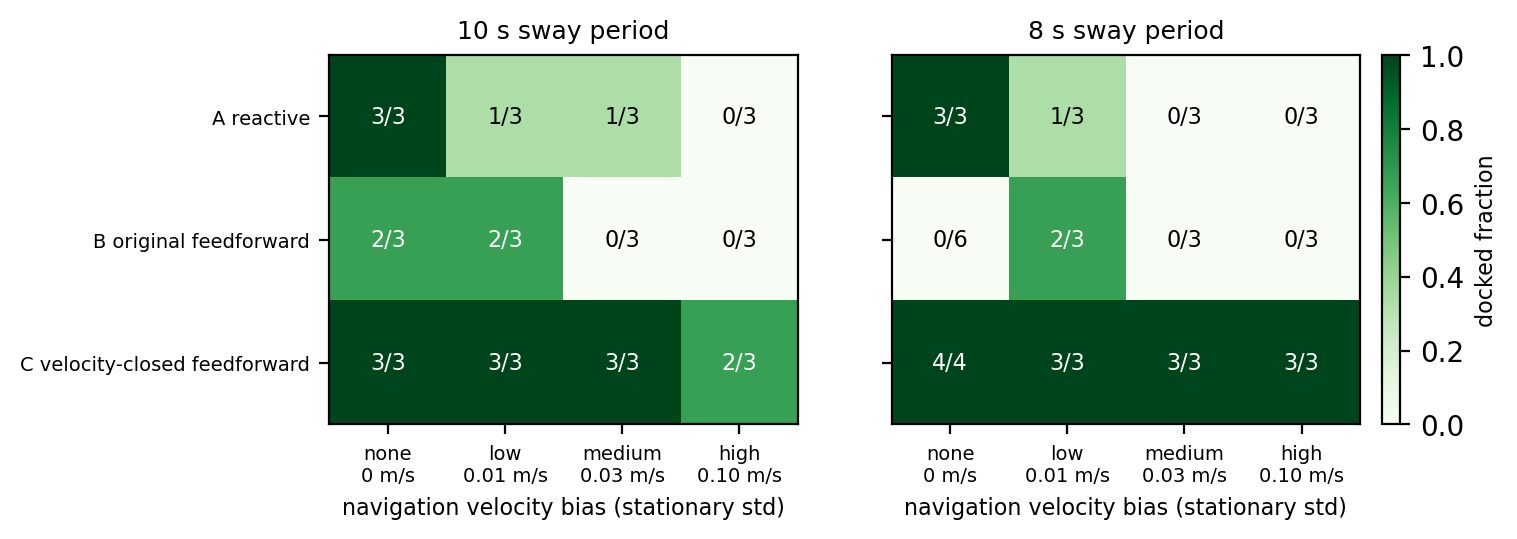
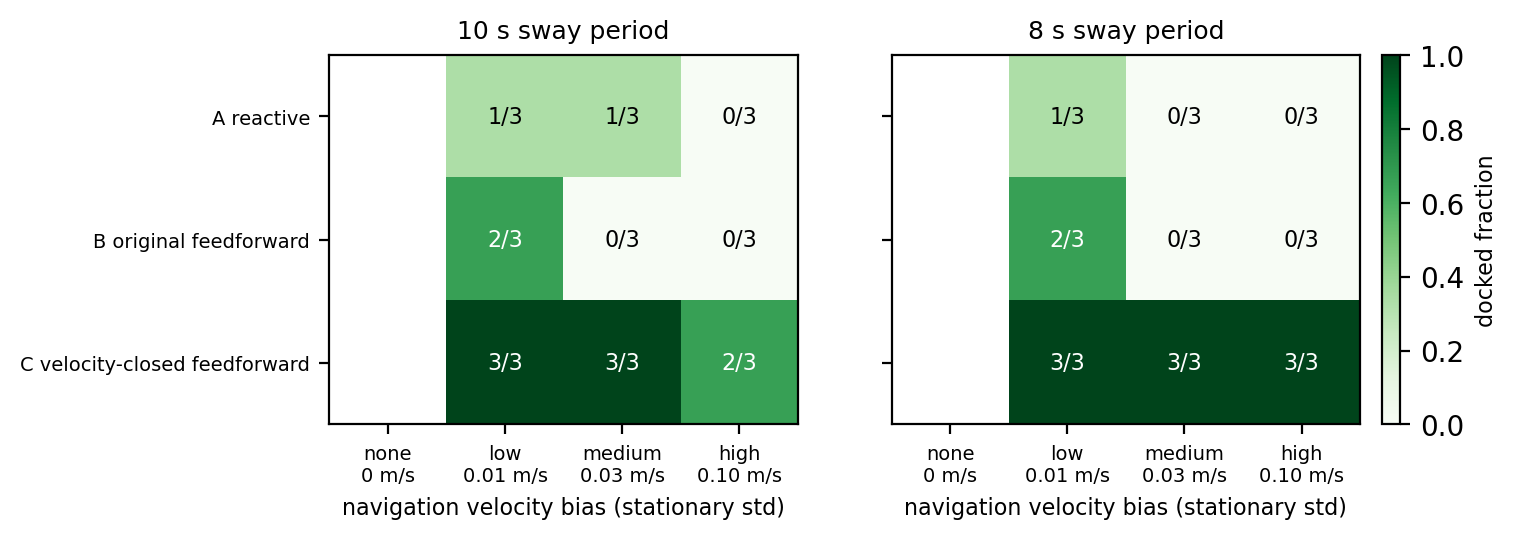
paper(figures): regenerate Table I and every result figure from the metrics by one script; redraw the pre-fix sweep at column width with arm names and n; legends off the data; contact trials marked; 6 s tick

diff --git a/ut27/t1/paper_figures.py b/ut27/t1/paper_figures.py
@@ -1,6 +1,6 @@
 """Paper figures from the per-trial metrics of the core sweep (all four arms, one host).
 
-Usage: python3 paper_figures.py <metrics.csv> <out_dir> [nav_metrics.csv]
+Usage: python3 paper_figures.py <metrics.csv> <out_dir> [nav_metrics.csv] [prefix_metrics.csv]
 Needs numpy < 2 with the host matplotlib; run with the scratch scipy/numpy on PYTHONPATH.
 """
 import csv
@@ -53,12 +53,13 @@ def fig_success(by, out):
         a.set_xticks(x); a.set_xticklabels([str(p) for p in PERIODS]); a.set_xlabel("sway period [s]")
         a.set_ylim(0, 1.05); a.set_title(title, fontsize=9); a.grid(axis="y", lw=0.3)
     ax[0].set_ylabel("fraction of trials")
-    ax[0].legend(fontsize=6.5, loc="lower left", framealpha=0.9)
-    fig.tight_layout(); fig.savefig(out, dpi=200); plt.close(fig)
+    handles, labels = ax[0].get_legend_handles_labels()
+    fig.legend(handles, labels, fontsize=7, loc="lower center", ncol=4, frameon=False, bbox_to_anchor=(0.5, -0.02))
+    fig.tight_layout(rect=(0, 0.06, 1, 1)); fig.savefig(out, dpi=200, bbox_inches="tight"); plt.close(fig)
 
 
 def fig_overswing(by, out):
-    fig, ax = plt.subplots(figsize=(3.5, 2.6))
+    fig, ax = plt.subplots(figsize=(3.5, 3.0))
     f = np.array([1.0 / p for p in PERIODS])
     ff = np.linspace(1 / 22, 1 / 5.5, 200)
     ax.plot(ff, [loop_model(1 / v, 1.0) for v in ff], "k-", lw=1, label="loop model, fine phase (unit gain)")
@@ -70,10 +71,12 @@ def fig_overswing(by, out):
         lo = [np.min(v) if v else np.nan for v in vals]; hi = [np.max(v) if v else np.nan for v in vals]
         ax.errorbar(f, med, yerr=[np.array(med) - np.array(lo), np.array(hi) - np.array(med)], fmt=marks[arm], ms=4, capsize=2, lw=0.8, label=NAMES[arm])
     ax.set_xlabel("sway frequency [Hz]"); ax.set_ylabel("vehicle / dock lateral amplitude")
-    ax.set_ylim(0.6, 2.1); ax.grid(lw=0.3); ax.legend(fontsize=5.5, loc="lower right", framealpha=0.9)
+    ax.set_ylim(0.6, 2.1); ax.grid(lw=0.3)
     sec = ax.secondary_xaxis("top", functions=(lambda v: 1 / np.maximum(v, 1e-6), lambda v: 1 / np.maximum(v, 1e-6)))
     sec.set_xticks(PERIODS); sec.set_xlabel("period [s]", fontsize=8)
-    fig.tight_layout(); fig.savefig(out, dpi=200); plt.close(fig)
+    handles, labels = ax.get_legend_handles_labels()
+    fig.legend(handles, labels, fontsize=5.5, loc="lower center", ncol=2, frameon=False, bbox_to_anchor=(0.5, 0.0))
+    fig.tight_layout(rect=(0, 0.10, 1, 1)); fig.savefig(out, dpi=200, bbox_inches="tight"); plt.close(fig)
 
 
 def fig_capture(by, out):
@@ -88,10 +91,61 @@ def fig_capture(by, out):
             a.errorbar(PERIODS, med, yerr=[np.array(med) - np.array(lo), np.array(hi) - np.array(med)], fmt=marks[arm] + "-", ms=4, capsize=2, lw=0.8, label=NAMES[arm])
     ax[0].set_ylabel("entry-plane lateral offset [cm]"); ax[1].set_ylabel("time to seat [s]")
     for a in ax:
-        a.set_xlabel("sway period [s]"); a.invert_xaxis(); a.grid(lw=0.3)
+        a.set_xlabel("sway period [s]"); a.set_xticks(PERIODS); a.invert_xaxis(); a.grid(lw=0.3)
+    for arm in ARMS:
+        for p in PERIODS:
+            rs = [r for r in by[(arm, p)] if r["outcome"] == "CONTACT" and r["capture_lateral_m"] not in ("nan", "")]
+            if rs:
+                ax[0].plot([p] * len(rs), [abs(float(r["capture_lateral_m"])) * 100 for r in rs], marks[arm], ms=4, mfc="white", mec="k", mew=0.6, lw=0)
+    ax[0].plot([], [], "o", ms=4, mfc="white", mec="k", mew=0.6, lw=0, label="contact trial")
     ax[0].axhline(3.0, color="grey", lw=0.6, ls=":"); ax[0].text(6.2, 3.15, "seat tolerance", fontsize=6, color="grey", ha="right")
     ax[0].legend(fontsize=6, loc="upper left", framealpha=0.9)
     fig.tight_layout(); fig.savefig(out, dpi=200); plt.close(fig)
+
+
+def fig_prefix_sweep(path, out):
+    """The sweep that exposed the failure (July host, arms A and B): docked and
+    contact-free fractions per period, with n per cell."""
+    rows = list(csv.DictReader(open(path)))
+    by = defaultdict(list)
+    for r in rows:
+        by[({"static": "A", "sway": "B"}[r["arm"]], int(float(r["period"])))].append(r)
+    fig, ax = plt.subplots(figsize=(3.5, 2.2))
+    x = np.arange(len(PERIODS)); wdt = 0.36
+    for i, arm in enumerate("AB"):
+        docked = [frac(by[(arm, p)], lambda r: r["docked"] in ("True", "1", "true")) for p in PERIODS]
+        clean = [frac(by[(arm, p)], lambda r: r["outcome"] == "CLEAN") for p in PERIODS]
+        ax.bar(x + (i - 0.5) * wdt, docked, wdt, color=f"C{i}", alpha=0.35, label=f"{NAMES[arm]}, docked")
+        ax.bar(x + (i - 0.5) * wdt, clean, wdt, color=f"C{i}", label=f"{NAMES[arm]}, without contact")
+        for j, p in enumerate(PERIODS):
+            n = len(by[(arm, p)])
+            if n != 3:
+                ax.text(x[j] + (i - 0.5) * wdt, max(docked[j], 0) + 0.03, f"n={n}", ha="center", va="bottom", fontsize=6)
+    ax.set_xticks(x); ax.set_xticklabels([str(p) for p in PERIODS]); ax.set_xlabel("sway period [s]")
+    ax.set_ylim(0, 1.12); ax.set_ylabel("fraction of trials"); ax.grid(axis="y", lw=0.3)
+    handles, labels = ax.get_legend_handles_labels()
+    fig.legend(handles, labels, fontsize=6, loc="lower center", ncol=2, frameon=False, bbox_to_anchor=(0.5, 0.0))
+    fig.tight_layout(rect=(0, 0.10, 1, 1)); fig.savefig(out, dpi=200, bbox_inches="tight"); plt.close(fig)
+
+
+def table_core(by):
+    """Table I rows: docked (clean), median |lateral offset| at the entry plane, median seat time."""
+    def med(vals, fmt):
+        return fmt % np.median(vals) if vals else "--"
+    lines = []
+    for arm in ARMS:
+        cells = []
+        for p in PERIODS:
+            rs = by[(arm, p)]; d = sum(r["docked"] in ("True", "1", "true") for r in rs); c = sum(r["outcome"] == "CLEAN" for r in rs)
+            cells.append(f"{d} ({c}) of {len(rs)}" if len(rs) != 3 else f"{d} ({c})")
+        lines.append(f"{arm} docked (clean) & " + " & ".join(cells) + r" \\")
+    for arm in ARMS:
+        cells = [med([abs(float(r["capture_lateral_m"])) * 100 for r in by[(arm, p)] if r["capture_lateral_m"] not in ("nan", "")], "%.1f") for p in PERIODS]
+        lines.append(f"{arm} offset [cm] & " + " & ".join(cells) + r" \\")
+    for arm in ARMS:
+        cells = [med([float(r["t_dock_s"]) for r in by[(arm, p)] if r["docked"] in ("True", "1", "true") and r["t_dock_s"] not in ("nan", "")], "%.0f") for p in PERIODS]
+        lines.append(f"{arm} seat time [s] & " + " & ".join(cells) + r" \\")
+    return "\n".join(lines)
 
 
 LEVELS = ["none", "low", "medium", "high"]
@@ -143,6 +197,9 @@ if __name__ == "__main__":
     fig_capture(by, f"{out}/capture_and_time.png")
     if len(sys.argv) > 3:
         fig_nav_heatmap(load_nav(sys.argv[3]), f"{out}/nav_heatmap.png")
+    if len(sys.argv) > 4:
+        fig_prefix_sweep(sys.argv[4], f"{out}/clean_pdock.png")
+    print(table_core(by))
     for p in PERIODS:
         print(f"model {p:2d} s: fine {loop_model(p, 1.0):.2f}, coarse {loop_model(p, 0.6):.2f}")
     print("written")

diff --git a/ut27/paper/sections/07-results.tex b/ut27/paper/sections/07-results.tex
@@ -9,28 +9,33 @@ Fig.~\ref{fig:success} shows the envelope. The reactive baseline docks at every 
 
 \begin{figure}[t]
   \centerline{\includegraphics[width=0.88\columnwidth]{figures/success_vs_period.png}}
-  \caption{Docking success versus sway period, three phases per cell (six for arm B at 8~s). Left: latched. Right: latched without crossing the aperture boundary.}
+  \caption{Docking success versus sway period on one host, three trials per cell (six for arm B and four for arm C at 8~s). Left: latched. Right: latched without crossing the aperture boundary.}
   \label{fig:success}
 \end{figure}
 
 \begin{table}[t]
-  \caption{Core sweep. Docked (of which clean), median entry-plane lateral offset over the cell, and median time to seat.}
+  \caption{Core sweep, 76 trials. Docked (of which without contact) out of three trials per cell unless stated; median over the cell of the lateral offset at the entry plane, over the trials that crossed it; median time to seat over the docked trials. Generated from the per-trial metrics by the same script as Figs.~\ref{fig:success} to~\ref{fig:capture}.}
   \label{tab:core}
   \centering
-  \footnotesize\setlength{\tabcolsep}{3pt}
+  \footnotesize\setlength{\tabcolsep}{2.6pt}
   \begin{tabular}{@{}lcccccc@{}}
     \toprule
     Period [s] & 20 & 16 & 12 & 10 & 8 & 6 \\
     \midrule
     A docked (clean) & 3 (3) & 3 (3) & 3 (3) & 3 (3) & 3 (1) & 3 (2) \\
     B docked (clean) & 3 (3) & 3 (3) & 3 (2) & 2 (2) & 0 of 6 & 0 \\
-    C docked (clean) & 3 (3) & 3 (3) & 3 (3) & 3 (3) & 4 (4) & 1 (1) \\
+    C docked (clean) & 3 (3) & 3 (3) & 3 (3) & 3 (3) & 4 (4) of 4 & 1 (1) \\
     D docked (clean) & 3 (3) & 3 (3) & 3 (3) & 3 (3) & 3 (2) & 0 \\
     \midrule
-    A offset [cm] & 0.5 & 0.6 & 0.6 & 0.8 & 4.4 & 3.2 \\
-    C offset [cm] & 0.3 & 0.5 & 0.8 & 0.4 & 1.3 & 1.7 \\
-    A seat time [s] & 18 & 19 & 21 & 20 & 80 & 76 \\
-    C seat time [s] & 40 & 45 & 42 & 42 & 47 & 156 \\
+    A offset [cm] & 0.5 & 0.7 & 0.2 & 0.7 & 2.1 & 3.4 \\
+    B offset [cm] & 2.1 & 3.6 & 1.4 & 0.3 & 4.3 & 2.4 \\
+    C offset [cm] & 0.3 & 0.6 & 0.4 & 0.5 & 1.6 & 1.7 \\
+    D offset [cm] & 1.9 & 4.2 & 2.5 & 3.4 & 2.4 & 5.7 \\
+    \midrule
+    A seat time [s] & 18 & 20 & 20 & 22 & 80 & 76 \\
+    B seat time [s] & 23 & 27 & 34 & 37 & -- & -- \\
+    C seat time [s] & 39 & 45 & 42 & 42 & 47 & 156 \\
+    D seat time [s] & 29 & 27 & 34 & 37 & 56 & -- \\
     \bottomrule
   \end{tabular}
 \end{table}
@@ -51,7 +56,7 @@ The offset at the entry plane and the time to seat (Fig.~\ref{fig:capture}, Tabl
 
 \begin{figure}[t]
   \centerline{\includegraphics[width=0.92\columnwidth]{figures/capture_and_time.png}}
-  \caption{Median and range over phases of the lateral offset at the entry plane (left, docked trials and contacts) and the time to seat (right, docked trials).}
+  \caption{Median and range over the cell of the lateral offset at the entry plane (left; hollow markers are the individual trials scored as contacts) and of the time to seat (right, docked trials only; a line is broken where no trial docked).}
   \label{fig:capture}
 \end{figure}
 

diff --git a/ut27/paper/sections/04-failure-mechanism.tex b/ut27/paper/sections/04-failure-mechanism.tex
@@ -6,14 +6,14 @@
 Fig.~\ref{fig:pdock} shows the sweep that exposed the failure, arms A and B at three phases per cell with contact-censored scoring, recorded before the fix on a different host; Section~\ref{sec:results} repeats all four arms on one host. The baseline docks in every trial at every period and cleanly down to 8~s; at 6~s two of three trials brush the aperture boundary at 0.03 to 0.06~m/s before latching. The feedforward method matches it down to 12~s, degrades at 10~s with one pre-latch contact, and fails at 8 and 6~s, the band of the mean New South Wales wave period. Clean insertions cross the entry plane 0.003 to 0.05~m off axis at 0.06 to 0.11~m/s. The result reproduced on a second host at a different real-time factor and with an earlier filter revision (velocity state unbounded): the baseline docked in every cell, the feedforward method docked in two of three trials at 8~s and one of three at 6~s, and its vehicle-to-dock amplitude ratio rose from 0.97 at 20~s to 1.41 at 8~s and 1.55 at 6~s against 0.85 to 0.98 for the baseline. Retuning the acceleration-noise density over 0.02 to 0.16~m/s$^2$ and bounding the velocity state and covariance limited the size of the estimate excursions but did not move the cliff; at every density the velocity state tracked the true dock velocity (amplitude ratio 0.93 to 1.01, correlation 0.73 to 0.96) while the vehicle over-swung the dock by 1.6 to 1.9 and the trials at 8 and 6~s failed.
 
 \begin{figure}[t]
-  \centerline{\includegraphics[width=0.62\columnwidth]{figures/clean_pdock.png}}
-  \caption{Docking success versus sway period, reactive baseline versus constant-velocity filter with feedforward; raw (dotted) and contact-censored (solid) scoring.}
+  \centerline{\includegraphics[width=0.95\columnwidth]{figures/clean_pdock.png}}
+  \caption{The sweep that exposed the failure (first host, arms A and B, three trials per cell except one valid trial for B at 8~s): fraction docked (light) and docked without aperture contact (dark) against sway period.}
   \label{fig:pdock}
 \end{figure}
 
 \begin{figure}[t]
   \centerline{\includegraphics[width=0.88\columnwidth]{figures/mechanism_p8.png}}
-  \caption{Decomposition of the failed 8~s trial. Top: the estimate sits on the dock while the vehicle over-swings, then dead-reckons when markers are lost (shaded). Middle: the velocity state tracks the true dock velocity; the vehicle's is twice it. Bottom: filter health and lateral command; the command is zero throughout the blackout.}
+  \caption{Decomposition of the failed 8~s trial. Top: the estimate sits on the dock while the vehicle over-swings, then dead-reckons when markers are lost (shaded). Middle: the velocity state tracks the true dock velocity; the vehicle's is twice it. Bottom: filter health (1 healthy, 2 degraded, 3 stale) and lateral command; the command is zero throughout the blackout.}
   \label{fig:mech}
 \end{figure}
 
